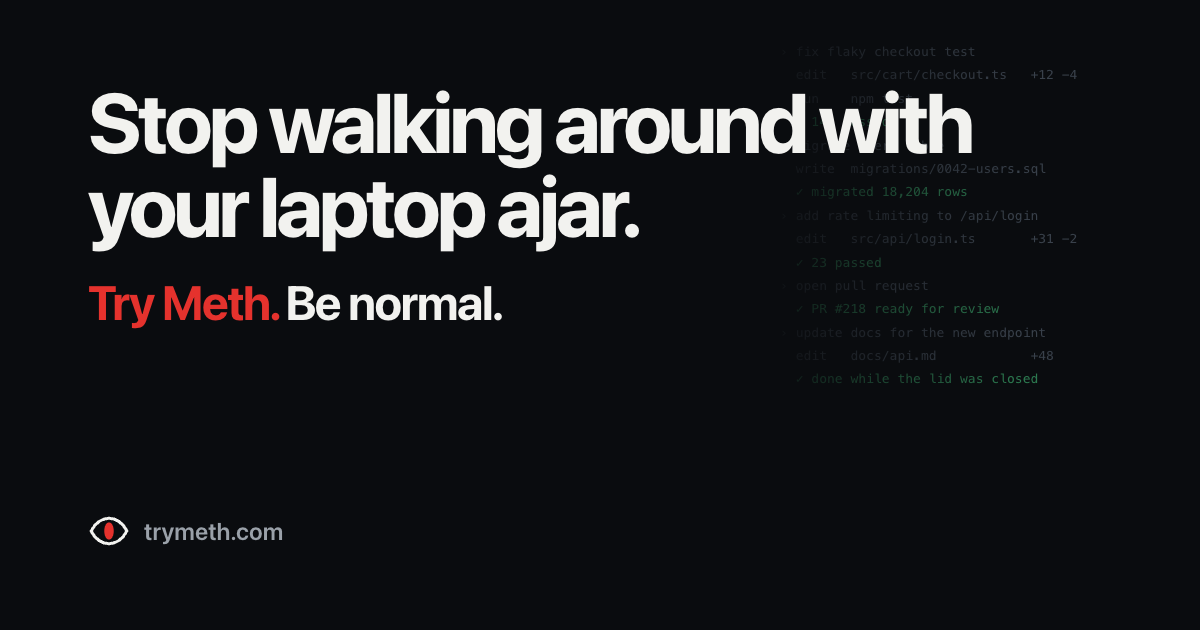
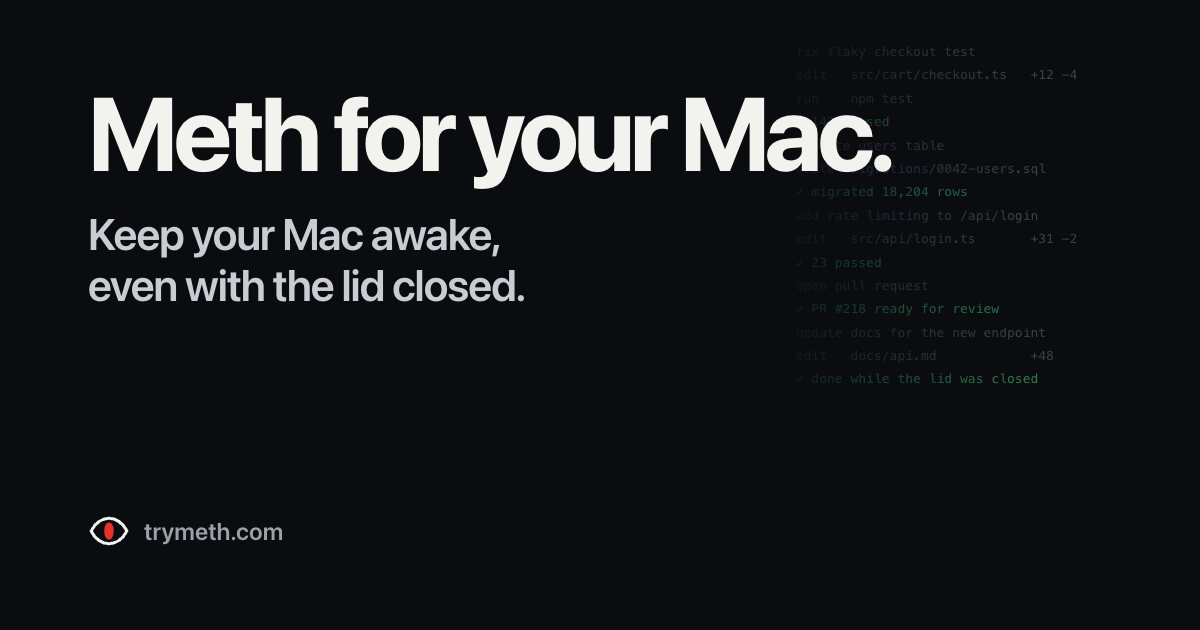
Redirect trymeth.com to HTTPS and simplify landing copy

Changed region(s): [[0.0617, 0.1508, 0.8325, 0.5127]]

diff --git a/site/index.html b/site/index.html
@@ -3,11 +3,11 @@
 <head>
 <meta charset="utf-8">
 <meta name="viewport" content="width=device-width, initial-scale=1">
-<title>Meth: keep your Mac awake with the lid closed</title>
-<meta name="description" content="Stop walking around with your laptop ajar. Meth keeps your Mac awake with the lid closed, so Claude keeps coding. Try Meth. Be normal.">
+<title>Meth for your Mac: keep it awake, even with the lid closed</title>
+<meta name="description" content="Meth keeps your Mac awake, even with the lid closed. Stop walking around with your laptop ajar.">
 <meta name="theme-color" content="#0a0c0f">
-<meta property="og:title" content="Stop walking around with your laptop ajar.">
-<meta property="og:description" content="Close the lid. Claude keeps coding. Try Meth. Be normal.">
+<meta property="og:title" content="Meth for your Mac">
+<meta property="og:description" content="Keep your Mac awake, even with the lid closed.">
 <meta property="og:url" content="https://trymeth.com/">
 <meta property="og:type" content="website">
 <meta property="og:image" content="https://trymeth.com/og.png">
@@ -69,10 +69,9 @@
 
   /* ---------- hero ---------- */
   .hero { display: grid; grid-template-columns: minmax(0, 1fr) minmax(0, 1.05fr); gap: clamp(32px, 5vw, 72px); align-items: center; }
-  h1 { font-size: clamp(40px, 4.7vw, 64px); line-height: .98; letter-spacing: -0.045em; font-weight: 750; text-wrap: balance; }
-  .tagline { margin-top: 26px; font-size: clamp(34px, 4.1vw, 56px); line-height: 1; letter-spacing: -0.045em; font-weight: 800; white-space: nowrap; }
-  .tagline .red { color: var(--red); margin-right: .12em; }
-  .lede { margin-top: 20px; font-size: 19px; line-height: 1.45; color: var(--muted); }
+  h1 { font-size: clamp(48px, 6.2vw, 84px); line-height: .98; letter-spacing: -0.045em; font-weight: 750; text-wrap: balance; }
+  .tagline { margin-top: 22px; font-size: clamp(24px, 2.6vw, 34px); line-height: 1.15; letter-spacing: -0.03em; font-weight: 650; max-width: 20ch; text-wrap: balance; }
+  .lede { margin-top: 18px; font-size: 18px; line-height: 1.45; color: var(--muted); max-width: 34ch; }
   .cta { margin-top: 28px; display: flex; align-items: center; gap: 16px; flex-wrap: wrap; }
   .btn { display: inline-flex; align-items: center; gap: 10px; background: var(--btn-bg); color: var(--btn-fg); padding: 14px 26px; border-radius: 999px; font-weight: 600; font-size: 16px; transition: transform .15s; }
   .btn:hover { transform: translateY(-1px); }
@@ -142,12 +141,11 @@
   .mode h2 { font-size: 17px; font-weight: 700; letter-spacing: -.02em; line-height: 1.2; }
   .mode p { font-size: 14.5px; color: var(--muted); line-height: 1.4; margin-top: 2px; }
   .mode.meth { border-color: transparent; background: linear-gradient(var(--red-soft), var(--red-soft)), var(--card); box-shadow: 0 0 0 1px color-mix(in srgb, var(--red) 55%, transparent), 0 12px 40px -14px rgba(229,50,45,.45); }
-  .fine { margin-top: 14px; font-size: 13px; color: var(--muted); }
-
+  
   @media (min-width: 901px) and (max-height: 820px) {
     main { padding: 12px 0; }
     h1 { font-size: clamp(36px, 7vh, 60px); }
-    .tagline { margin-top: 16px; font-size: clamp(32px, 6vh, 52px); }
+    .tagline { margin-top: 14px; font-size: clamp(22px, 4vh, 32px); }
     .lede { margin-top: 12px; }
     .cta { margin-top: 20px; }
     .modes { margin-top: 24px; }
@@ -185,17 +183,17 @@
   <main>
     <section class="hero">
       <div>
-        <h1>Stop walking around with your laptop ajar.</h1>
-        <p class="tagline"><span class="red">Try Meth.</span> Be normal.</p>
-        <p class="lede">Close the lid. Claude keeps coding.</p>
+        <h1>Meth for your Mac.</h1>
+        <p class="tagline">Keep your Mac awake, even with the lid closed.</p>
+        <p class="lede">Stop walking around with your laptop ajar. Close the lid and your agents keep running.</p>
         <div class="cta">
           <a class="btn" href="/download/Meth.dmg">
             <svg width="16" height="16" viewBox="0 0 16 16" aria-hidden="true"><path d="M8 2v8m0 0L4.5 6.5M8 10l3.5-3.5M3 13h10" fill="none" stroke="currentColor" stroke-width="1.8" stroke-linecap="round" stroke-linejoin="round"/></svg>
             Get Meth
           </a>
-          <span class="meta">First one's free · macOS 15+</span>
+          <span class="meta">Free · macOS 15+</span>
         </div>
-        <p class="share">Know someone who carries theirs ajar? <a href="https://x.com/intent/post?text=I%27ve%20been%20carrying%20my%20laptop%20half%20open%20like%20a%20pizza%20box%20so%20Claude%20doesn%27t%20stop.%20Turns%20out%20there%27s%20a%20fix%3A&amp;url=https%3A%2F%2Ftrymeth.com">Send them this →</a></p>
+        <p class="share">Know someone who carries theirs ajar? <a href="https://x.com/intent/post?text=Meth%20for%20your%20Mac%3A%20keeps%20it%20awake%2C%20even%20with%20the%20lid%20closed.&amp;url=https%3A%2F%2Ftrymeth.com">Send them this →</a></p>
       </div>
 
       <div class="visual" id="visual">
@@ -253,18 +251,17 @@
     <ul class="modes">
       <li class="mode">
         <svg viewBox="0 0 21 19" aria-hidden="true"><path d="M1.5 9.5C6 1 15 1 19.5 9.5C15 18 6 18 1.5 9.5Z" fill="none" stroke="currentColor" stroke-width="1.5" stroke-linejoin="round"/><ellipse cx="10.5" cy="9.5" rx="2.4" ry="4.3" fill="none" stroke="currentColor" stroke-width="1.3"/></svg>
-        <div><h2>Off</h2><p>Sober. Close the lid and it sleeps.</p></div>
+        <div><h2>Off</h2><p>Your Mac sleeps normally.</p></div>
       </li>
       <li class="mode">
         <svg viewBox="0 0 21 19" aria-hidden="true"><path d="M1.5 9.5C6 1 15 1 19.5 9.5C15 18 6 18 1.5 9.5Z" fill="none" stroke="currentColor" stroke-width="1.5" stroke-linejoin="round"/><ellipse cx="10.5" cy="9.5" rx="2.4" ry="4.3" fill="currentColor"/></svg>
-        <div><h2>Caffeine</h2><p>The gateway. Awake while the lid's open.</p></div>
+        <div><h2>Caffeine</h2><p>Stays awake while the lid is open.</p></div>
       </li>
       <li class="mode meth">
         <svg viewBox="0 0 21 19" aria-hidden="true"><path d="M1.5 9.5C6 1 15 1 19.5 9.5C15 18 6 18 1.5 9.5Z" fill="none" stroke="currentColor" stroke-width="1.5" stroke-linejoin="round"/><ellipse cx="10.5" cy="9.5" rx="2.4" ry="4.3" fill="var(--red)"/></svg>
-        <div><h2>Meth</h2><p>Lid shut. Still shipping.</p></div>
+        <div><h2>Meth</h2><p>Stays awake with the lid closed.</p></div>
       </li>
     </ul>
-    <p class="fine">Side effects may include a warm laptop: the screen stays on under the lid, so keep it out of bags. Right-click the eye to toggle Meth after a one-time admin setup. Cuts itself off at 10% battery.</p>
   </main>
 
   <footer>

diff --git a/site/art/og.html b/site/art/og.html
@@ -3,8 +3,8 @@
 body{width:1200px;height:630px;background:#0a0c0f;color:#f2f2ef;font-family:-apple-system,BlinkMacSystemFont,"SF Pro Display","Helvetica Neue",sans-serif;-webkit-font-smoothing:antialiased;padding:80px 88px;display:flex;flex-direction:column;justify-content:space-between;position:relative;overflow:hidden}
 .bg{position:absolute;inset:0;font:13px/1.8 ui-monospace,Menlo,monospace;color:#39414b;padding:40px 0 0 780px;white-space:pre;-webkit-mask-image:linear-gradient(90deg,transparent 62%,#000 85%)}
 .bg .ok{color:#2c7a50}
-h1{position:relative;font-size:84px;line-height:1;letter-spacing:-.045em;font-weight:750;max-width:900px}
-p{position:relative;font-size:48px;font-weight:700;letter-spacing:-.035em;margin-top:26px}
+h1{position:relative;font-size:104px;line-height:1;letter-spacing:-.045em;font-weight:750;max-width:900px}
+p{position:relative;font-size:44px;font-weight:600;letter-spacing:-.03em;margin-top:24px;max-width:760px;line-height:1.15;color:#c9ccd1}
 p span{color:#e5322d}
 .foot{position:relative;display:flex;align-items:center;gap:14px;font-size:24px;font-weight:600;color:#9aa1a9}
 </style></head><body>
@@ -23,6 +23,6 @@ p span{color:#e5322d}
 › update docs for the new endpoint
   edit   docs/api.md            +48
 <span class="ok">  ✓ done while the lid was closed</span></div>
-<div><h1>Stop walking around with your laptop ajar.</h1><p><span>Try Meth.</span> Be normal.</p></div>
+<div><h1>Meth for your Mac.</h1><p>Keep your Mac awake,<br>even with the lid closed.</p></div>
 <div class="foot"><svg width="42" height="38" viewBox="0 0 21 19"><path d="M1.5 9.5C6 1 15 1 19.5 9.5C15 18 6 18 1.5 9.5Z" fill="none" stroke="#f2f2ef" stroke-width="1.5" stroke-linejoin="round"/><ellipse cx="10.5" cy="9.5" rx="2.4" ry="4.3" fill="#e5322d"/></svg>trymeth.com</div>
 </body></html>

diff --git a/worker/index.js b/worker/index.js
@@ -1,0 +1,12 @@
+// Sends every request to https://trymeth.com, then serves the static site.
+export default {
+  async fetch(request, env) {
+    const url = new URL(request.url);
+    if (url.protocol === 'http:' || url.hostname === 'www.trymeth.com') {
+      url.protocol = 'https:';
+      url.hostname = 'trymeth.com';
+      return Response.redirect(url.toString(), 301);
+    }
+    return env.ASSETS.fetch(request);
+  },
+};
